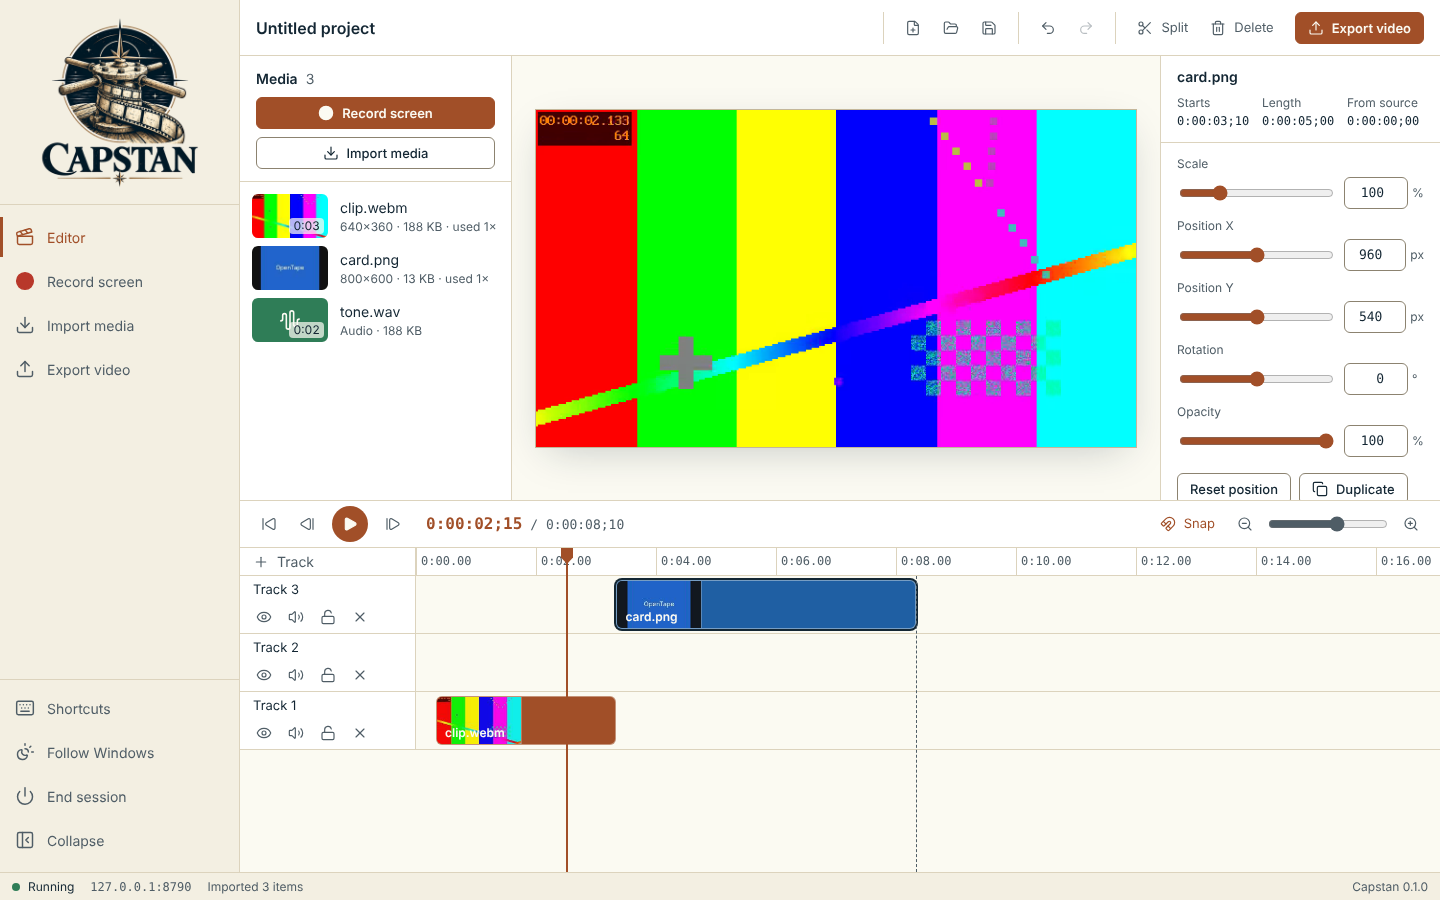
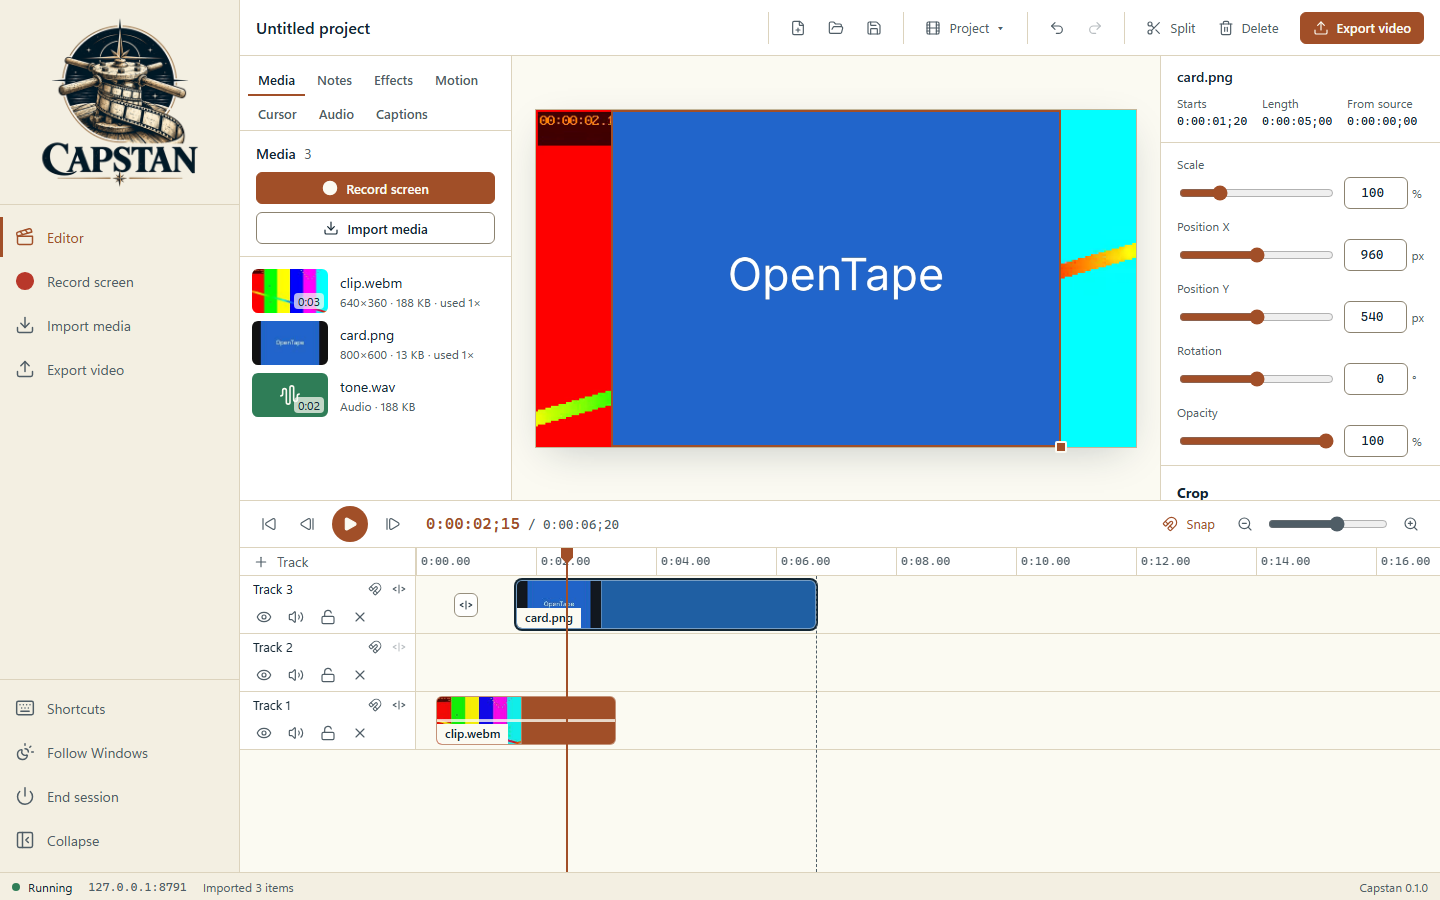
Docs: retake the walkthrough and README screenshots from the current build and add steps 8 to 13

diff --git a/docs/walkthrough/README.md b/docs/walkthrough/README.md
@@ -1,6 +1,6 @@
 # Capstan walkthrough
 
-Record or import footage, cut it on a multi-track timeline and export an MP4, all on this computer.
+Record or import footage, cut it on a multi-track timeline, add notes, motion, effects, captions and audio, and export a video, GIF or audio file, all on this computer.
 
 > **Screenshots:** captured with demo data and scanned by the Chief of Staff (team directive 10).
 
@@ -27,33 +27,69 @@ Select **Import media**, or drop files anywhere in the window. They land in the 
 
 ### 3. Edit on the timeline
 
-Drag clips onto tracks, trim their edges and press **S** to split at the playhead. The demo clip used here is a short recording of Scrimshaw's welcome screen.
+Drag clips onto tracks, trim their edges and press **S** to split at the playhead. The demo clip used here is a short recording of Capstan's own welcome screen.
 
-![Capstan editor with the demo clip of Scrimshaw's welcome screen split at the playhead on track 1, and the title card on track 2.](../assets/walkthrough/03-timeline-edit.png)
+![Capstan editor with the demo clip, a recording of Capstan's welcome screen, split at 0:00:05;00 on Track 1 and the title card on Track 2.](../assets/walkthrough/03-timeline-edit.png)
 
 ### 4. Adjust a clip
 
-Select a clip. The **Inspector** sets its position, scale, rotation, opacity and, for clips with sound, volume. Here the playhead is at 0:00:01;15, over the title card.
+Select a clip. The **Inspector** sets its position, scale, rotation, opacity and, for clips with sound, volume, and goes on to crop, speed, effects and keyframes. Here the playhead is at 0:00:01;15, over the title card.
 
 ![Capstan Inspector for the selected demo-title.png title card, showing scale, position, rotation and opacity, with the playhead at 0:00:01;15.](../assets/walkthrough/04-clip-properties.png)
 
 ### 5. Record your screen
 
-**Record screen** first asks what to record: a browser tab, a window or the entire screen. For a tab or a window, your browser's picker does not offer screens, and if anything else is shared Capstan stops before recording a frame. Options cover the microphone, computer sound and adding the recording to the end of the timeline.
+**Record screen** first asks what to record: a browser tab, a window or the entire screen. For a tab or a window, your browser's picker does not offer screens, and if anything else is shared Capstan stops before recording a frame. Options cover the microphone, computer sound, a webcam on its own track, a countdown, saving to disk while recording and adding the recording to the end of the timeline.
 
-![Capstan Record screen dialog with "A window" chosen under What to record, and microphone, computer sound and add-to-timeline options checked.](../assets/walkthrough/05-record-dialog.png)
+![Capstan Record screen dialog with "A window" chosen under What to record, and sound, webcam, countdown, save-to-disk and add-to-timeline options below it.](../assets/walkthrough/05-record-dialog.png)
 
-### 6. Blur personal details and add captions
+### 6. Blur personal details
 
-With no clip selected, the Inspector lists **Blur regions** and **Captions**. **Add blur region at playhead** puts a box over every track for three seconds; drag it in the preview, resize it from the corner, and set blur or pixelate and the strength. **Import captions** reads an SRT or WebVTT file; captions show in the preview.
+With no clip selected, the Inspector lists **Blur regions**; the **Notes** tab has the same blur and a pixelate region. **Add blur region at playhead** puts a box over every track for three seconds; drag it in the preview, resize it from the corner, and set blur or pixelate, the strength and the timing.
 
-![Capstan with a blur region selected over the preview and its Inspector showing effect, strength, timing and position.](../assets/walkthrough/06-blur-and-captions.png)
+![Capstan with a blur region selected over the word demo on the title card, its Inspector showing effect, strength, start, length and position, and a Blur row under the tracks.](../assets/walkthrough/06-blur-and-captions.png)
 
 ### 7. Export
 
-**Export video** writes an MP4 (H.264) to your Downloads folder. Choose the size and quality, whether to include audio and, when the project has captions, whether to burn them in.
+**Export video** opens the export dialog. Pick a preset or set the format, range, size, frame rate and quality yourself, choose whether to include audio and, when the project has captions, whether to burn them in. An MP4 (H.264) is written to your Downloads folder, or straight to a file you choose.
 
-![Capstan Export video dialog for a 10-second MP4 with 1080p size, Standard quality and Include audio selected.](../assets/walkthrough/07-export-dialog.png)
+![Capstan Export video dialog for an MP4 (H.264) of just under 10 seconds with the whole project, the project size, 30 fps, Standard quality and Include audio selected.](../assets/walkthrough/07-export-dialog.png)
+
+### 8. Add callouts and arrows
+
+Open the **Notes** tab to add text, callouts, shapes, arrows, highlights or a spotlight at the playhead; each gets its own row under the tracks, and the Inspector sets its text, font, colours and timing.
+
+![Capstan with the Notes tab open, a cream Start here callout and a red arrow over the title card, the callout selected with its text and font in the Inspector, and a Notes row under the tracks.](../assets/walkthrough/08-annotations.png)
+
+### 9. Zoom, pan and transitions
+
+On the **Motion** tab, **Add zoom at playhead** magnifies part of the picture for a while and zooms back out, and the transition presets fade or slide the selected clip in and out.
+
+![Capstan with the Motion tab open, the title card selected with a fade at its end, a Zoom 1 region on its own Zoom row, and the preview magnified on part of the title text.](../assets/walkthrough/09-motion.png)
+
+### 10. Style a clip with effects
+
+The **Effects** tab applies one-click looks, such as a rounded card with a shadow or a laptop frame, and the Inspector fine-tunes colour, shadow, corners, blend mode and device frame.
+
+![Capstan with the Effects tab open, the title card as a rounded card with a shadow beside the recording in a laptop frame, and the Inspector showing the Device frame set to Laptop.](../assets/walkthrough/10-effects.png)
+
+### 11. Captions and chapter markers
+
+Add captions or import an SRT or WebVTT file on the **Captions** tab and edit each one in the Inspector, and press **M** to drop a marker on the ruler that can also be a chapter.
+
+![Capstan with the Captions tab listing three imported captions, the second selected with its text and timing in the Inspector and shown over the picture, a Captions row under the tracks, and Intro and Details markers on the ruler.](../assets/walkthrough/11-captions-markers.png)
+
+### 12. Work with audio
+
+Audio clips draw their waveform on the timeline, the **Audio** tab offers quick fades, levelling and noise removal, and the Inspector sets the volume and fade lengths.
+
+![Capstan with the Audio tab open and a green demo-voice.wav clip on Track 3 showing its waveform, selected, with the Inspector showing volume, speed and a one-second fade in.](../assets/walkthrough/12-audio.png)
+
+### 13. Export a part, or another format
+
+Mark a range with **I** and **O** on the timeline, then choose it under Range, and pick another format such as an animated GIF, a PNG of one frame, or WAV or M4A audio only.
+
+![Capstan Export video dialog with the format set to Animated GIF and the range set to In to out, 0:01.50 to 0:04.50, with colours, dither, loop and burn-in captions options.](../assets/walkthrough/13-export-formats.png)
 
 ## About these images
 
